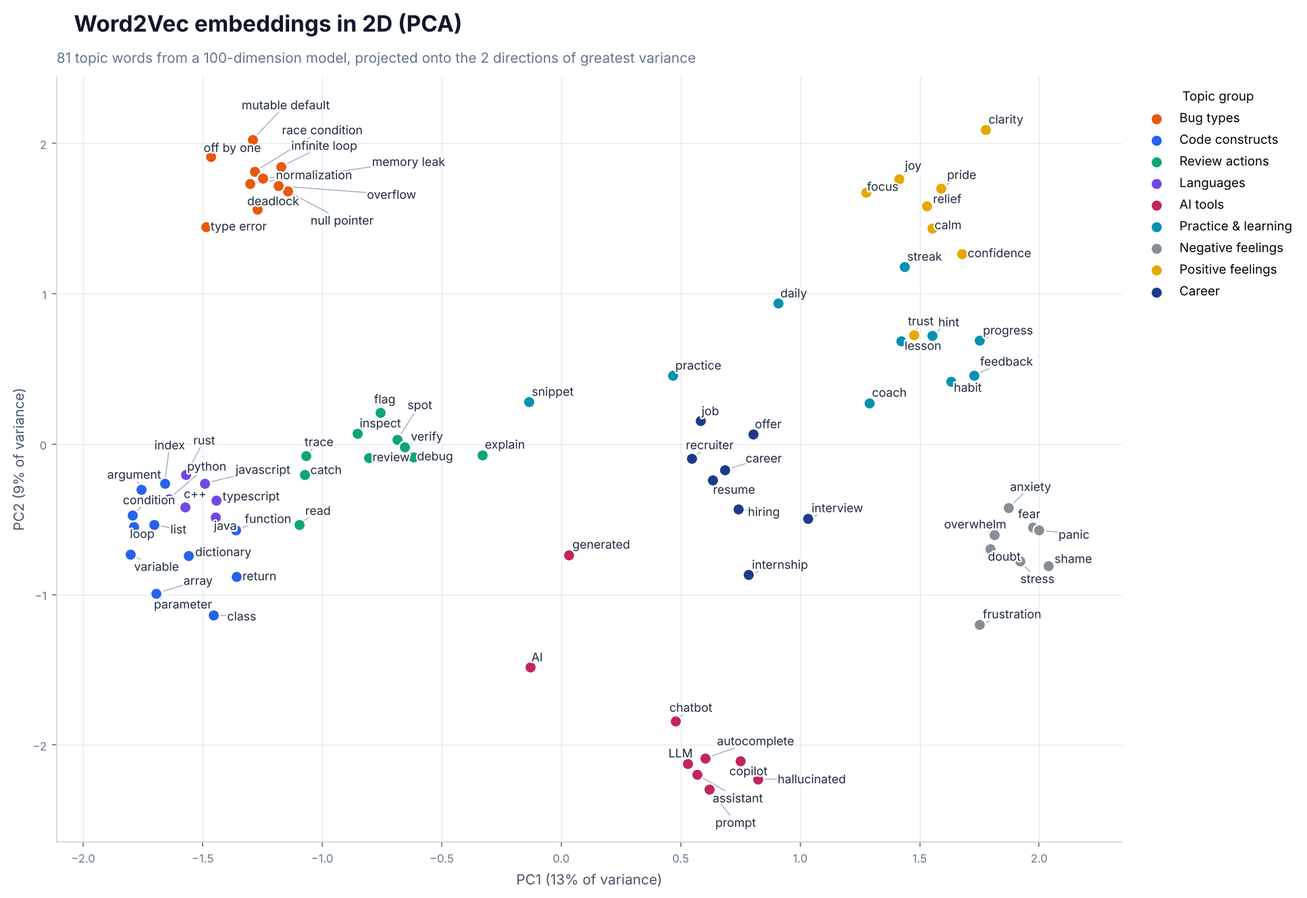
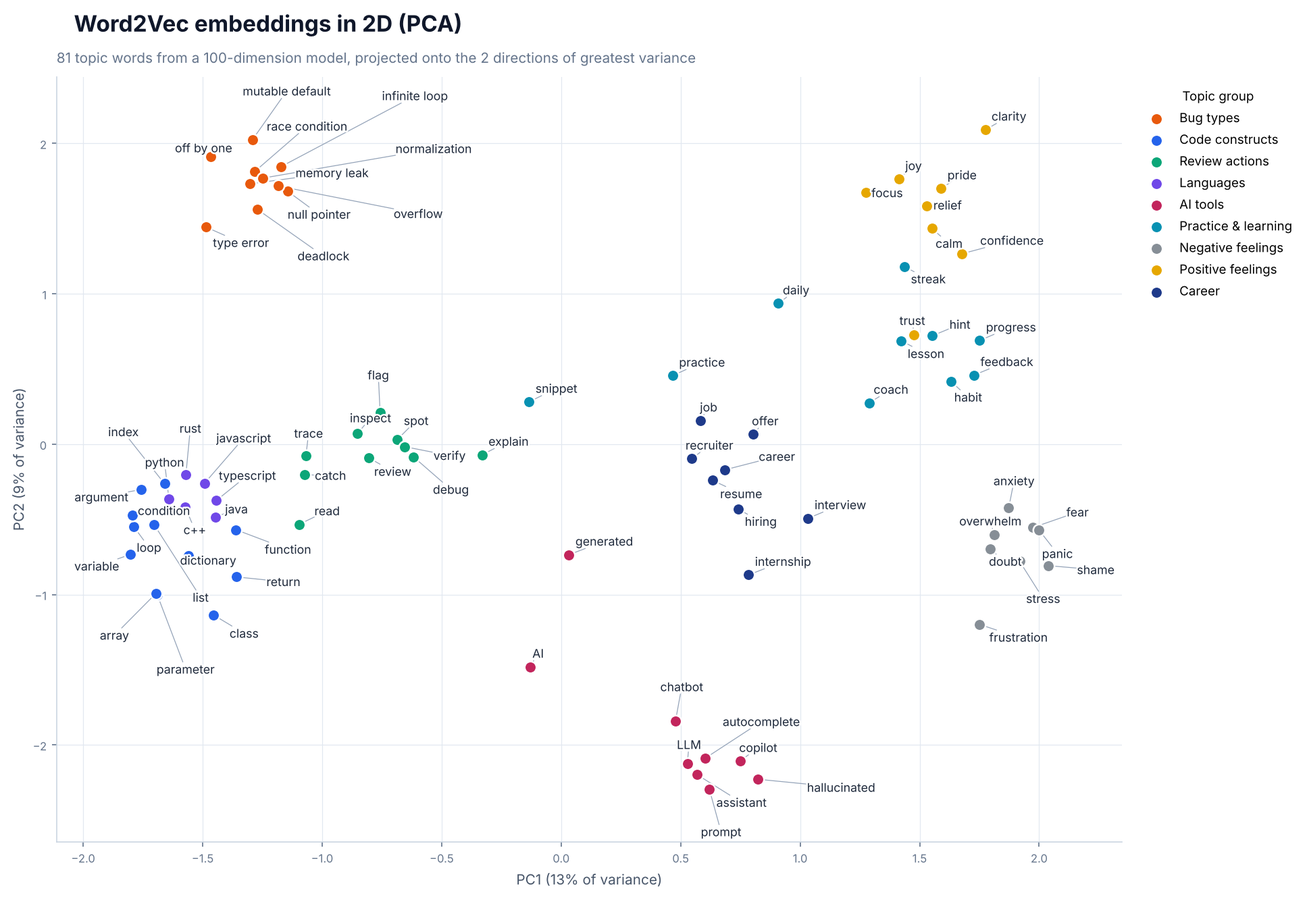
Word2Vec: review fixes in progress (checkpoint)
Claude-Session: https://claude.ai/code/session_01VZ5QCw8treQoUtVw5pt1K5

diff --git a/word2vec/outputs/embedding_3d.html b/word2vec/outputs/embedding_3d.html
@@ -6,6 +6,6 @@
 </head>
 <body>
     <div style="height:100%; width:100%;">                        <script>window.PlotlyConfig = {MathJaxConfig: 'local'};</script>
-        <script charset="utf-8" src="https://cdn.plot.ly/plotly-4.1.1.min.js" integrity="sha256-O24V1F27f8pb0glCkelh3cVHLNiHAJ5gCaVtq2aNch8=" crossorigin="anonymous"></script>                <div id="4387cd85-2b52-4ad8-956a-1c67263fd179" class="plotly-graph-div" style="height:100%; width:100%;"></div>            <script>                window.PLOTLYENV=window.PLOTLYENV || {};                                if (document.getElementById("4387cd85-2b52-4ad8-956a-1c67263fd179")) {                    Plotly.newPlot(                        "4387cd85-2b52-4ad8-956a-1c67263fd179",                        [{"hovertemplate":"\u003cb\u003e%{text}\u003c\u002fb\u003e\u003cbr\u003eBug types\u003cextra\u003e\u003c\u002fextra\u003e","marker":{"color":"#E8590C","line":{"color":"white","width":1},"size":6},"mode":"markers+text","name":"Bug types","text":["off by one","mutable default","null pointer","race condition","memory leak","infinite loop","type error","deadlock","overflow","normalization"],"textfont":{"color":"#1E293B","size":11},"textposition":"top center","x":{"dtype":"f4","bdata":"n4G7v0xTpb\u002fpa5K\u002f8w+kvwyTpr8tDJa\u002fFUi+v2G6or\u002f9rZe\u002f+O2fvw=="},"y":{"dtype":"f4","bdata":"QsL0P7qeAUCsPtc\u002fkC3oP9un3T9FQuw\u002f+ty4PxLwxz9n1Ns\u002fnXHiPw=="},"z":{"dtype":"f4","bdata":"OjhzP\u002fbHfT8MbrE\u002f+hWfP\u002f9owj+waZ0\u002fRTSgP27Toj8QKak\u002fE7+\u002fPw=="},"type":"scatter3d"},{"hovertemplate":"\u003cb\u003e%{text}\u003c\u002fb\u003e\u003cbr\u003eCode constructs\u003cextra\u003e\u003c\u002fextra\u003e","marker":{"color":"#2563EB","line":{"color":"white","width":1},"size":6},"mode":"markers+text","name":"Code constructs","text":["loop","function","variable","list","index","argument","parameter","array","dictionary","condition","return","class"],"textfont":{"color":"#1E293B","size":11},"textposition":"top center","x":{"dtype":"f4","bdata":"OPDkv6sirr\u002fp5Oa\u002f1\u002fbZv39r1L\u002fC\u002f+C\u002fbUnYv+YZ2b+Fnse\u002flrDlvyT5rb8NHbq\u002f"},"y":{"dtype":"f4","bdata":"PREMv4inEb8v\u002fju\u002f\u002fjQJvxzIhr4OVJq+almAv7dTfr+Raj2\u002fvybxvmj4Yb8vdJG\u002f"},"z":{"dtype":"f4","bdata":"LEHsv8Rxcb8s3aW\u002fLBrDv95ix7\u002fqYbe\u002fBQnCv9Mv07\u002fbc8a\u002fTvy6v68qwb9z+MC\u002f"},"type":"scatter3d"},{"hovertemplate":"\u003cb\u003e%{text}\u003c\u002fb\u003e\u003cbr\u003eReview actions\u003cextra\u003e\u003c\u002fextra\u003e","marker":{"color":"#0CA678","line":{"color":"white","width":1},"size":6},"mode":"markers+text","name":"Review actions","text":["read","review","trace","flag","inspect","explain","debug","spot","catch","verify"],"textfont":{"color":"#1E293B","size":11},"textposition":"top center","x":{"dtype":"f4","bdata":"ZU2Mv\u002fvGTb8osoi\u002f1OdBvwQBWr\u002fUV6m+zQAev8Z1L7+Rjom\u002f2YQnvw=="},"y":{"dtype":"f4","bdata":"p2IIv8Qfu71Jopq9o7ZVPjFykj0ZzI+9hmmuve16\u002fzxGGVC+iTKJvA=="},"z":{"dtype":"f4","bdata":"oBplvsXA175Dk1y\u002fkxf1vv7R\u002f77xuiG9RWmGvpZbGL\u002fKeIC+Ajatvg=="},"type":"scatter3d"},{"hovertemplate":"\u003cb\u003e%{text}\u003c\u002fb\u003e\u003cbr\u003eLanguages\u003cextra\u003e\u003c\u002fextra\u003e","marker":{"color":"#7048E8","line":{"color":"white","width":1},"size":6},"mode":"markers+text","name":"Languages","text":["python","javascript","java","c++","typescript","rust"],"textfont":{"color":"#1E293B","size":11},"textposition":"top center","x":{"dtype":"f4","bdata":"iBLSvz0Iv78IQbm\u002f6WPJv0ebuL\u002fAAcm\u002f"},"y":{"dtype":"f4","bdata":"wEm6vmEfhb5tP\u002fi+yhHVvqVtv75CBlG+"},"z":{"dtype":"f4","bdata":"MA4zvq1qtD4zeAk\u002fC\u002fHyPkIgCj+wHpc+"},"type":"scatter3d"},{"hovertemplate":"\u003cb\u003e%{text}\u003c\u002fb\u003e\u003cbr\u003eAI tools\u003cextra\u003e\u003c\u002fextra\u003e","marker":{"color":"#C2255C","line":{"color":"white","width":1},"size":6},"mode":"markers+text","name":"AI tools","text":["AI","assistant","chatbot","copilot","LLM","prompt","generated","hallucinated","autocomplete"],"textfont":{"color":"#1E293B","size":11},"textposition":"top center","x":{"dtype":"f4","bdata":"GXcFvharET+44vQ+JbY\u002fP24kBz+zqx4\u002fMZQGPe7mUj9Smxo\u002f"},"y":{"dtype":"f4","bdata":"xYK9v9mtDMBRxuu\u002fotsGwKHoB8CaxBLAiR88v\u002fadDsCHmAXA"},"z":{"dtype":"f4","bdata":"1hV5PxLLuj9P3aI\u002fSg\u002fIP5bdsz9ZQM4\u002fwWwvPzk+qj8Ajso\u002f"},"type":"scatter3d"},{"hovertemplate":"\u003cb\u003e%{text}\u003c\u002fb\u003e\u003cbr\u003ePractice & learning\u003cextra\u003e\u003c\u002fextra\u003e","marker":{"color":"#0891B2","line":{"color":"white","width":1},"size":6},"mode":"markers+text","name":"Practice & learning","text":["practice","streak","daily","snippet","coach","feedback","hint","lesson","habit","progress"],"textfont":{"color":"#1E293B","size":11},"textposition":"top center","x":{"dtype":"f4","bdata":"4dLuPhDetz+QtGg\u002fl2AJvpEDpT+dG90\u002f9LzGP3gktj9L49A\u002fDRzgPw=="},"y":{"dtype":"f4","bdata":"1l\u002fpPqQLlz9Fnm8\u002f4DiQPrDmjD5uKOs+OIU4PygUMD9dIdU+GXwwPw=="},"z":{"dtype":"f4","bdata":"2E3GPAKSX75YLqI7I9wxvpnGQb8fFHa+hyXIvqn9+r7QC9O+4ynCvg=="},"type":"scatter3d"},{"hovertemplate":"\u003cb\u003e%{text}\u003c\u002fb\u003e\u003cbr\u003eNegative feelings\u003cextra\u003e\u003c\u002fextra\u003e","marker":{"color":"#868E96","line":{"color":"white","width":1},"size":6},"mode":"markers+text","name":"Negative feelings","text":["anxiety","shame","overwhelm","fear","panic","frustration","doubt","stress"],"textfont":{"color":"#1E293B","size":11},"textposition":"top center","x":{"dtype":"f4","bdata":"XLbvP7Z+AkDz3Oc\u002fb6j8PyHn\u002fz\u002f8B+A\u002foKLlP1WS9T8="},"y":{"dtype":"f4","bdata":"5LjYvjXITr8axRm\u002fA\u002fkNvx4JEr\u002f1Zpm\u002fZsUyv16JR78="},"z":{"dtype":"f4","bdata":"ZCuTv00Gdb9753u\u002fs7+Jv573a79OUBS\u002f+s2Dv1Y+hr8="},"type":"scatter3d"},{"hovertemplate":"\u003cb\u003e%{text}\u003c\u002fb\u003e\u003cbr\u003ePositive feelings\u003cextra\u003e\u003c\u002fextra\u003e","marker":{"color":"#E6A700","line":{"color":"white","width":1},"size":6},"mode":"markers+text","name":"Positive feelings","text":["confidence","pride","relief","clarity","calm","focus","trust","joy"],"textfont":{"color":"#1E293B","size":11},"textposition":"top center","x":{"dtype":"f4","bdata":"QHPWPxd2yz9n6sM\u002fYGvjP7SIxj\u002fSFKM\u002ftvu8P63gtD8="},"y":{"dtype":"f4","bdata":"HQSiP9622T\u002ff8Mo\u002f1OMFQBmWtz9ymdY\u002frGk6P3mb4T8="},"z":{"dtype":"f4","bdata":"XpdGv\u002fMoML9ZZCy\u002fOyBhv\u002fN2Yr8Z5JO\u002f5O4Iv42zTr8="},"type":"scatter3d"},{"hovertemplate":"\u003cb\u003e%{text}\u003c\u002fb\u003e\u003cbr\u003eCareer\u003cextra\u003e\u003c\u002fextra\u003e","marker":{"color":"#1E3A8A","line":{"color":"white","width":1},"size":6},"mode":"markers+text","name":"Career","text":["interview","internship","job","recruiter","resume","offer","hiring","career"],"textfont":{"color":"#1E293B","size":11},"textposition":"top center","x":{"dtype":"f4","bdata":"KE6EP9u5SD8qDBU\u002fgA4MPzXwIT\u002frVU0\u002faeU9P58TLz8="},"y":{"dtype":"f4","bdata":"DkD8vpmRXr+s0CA+uBfFvaNtdb4RPIY9BaXdvkYRL74="},"z":{"dtype":"f4","bdata":"nx\u002fGP26M0D83jmY\u002fFFjYPxvzxD8kX+k\u002f3yeqP1Y39T8="},"type":"scatter3d"}],                        {"template":{"data":{"histogram2dcontour":[{"type":"histogram2dcontour","colorbar":{"outlinewidth":0,"ticks":""},"colorscale":[[0.0,"#0d0887"],[0.1111111111111111,"#46039f"],[0.2222222222222222,"#7201a8"],[0.3333333333333333,"#9c179e"],[0.4444444444444444,"#bd3786"],[0.5555555555555556,"#d8576b"],[0.6666666666666666,"#ed7953"],[0.7777777777777778,"#fb9f3a"],[0.8888888888888888,"#fdca26"],[1.0,"#f0f921"]]}],"choropleth":[{"type":"choropleth","colorbar":{"outlinewidth":0,"ticks":""}}],"histogram2d":[{"type":"histogram2d","colorbar":{"outlinewidth":0,"ticks":""},"colorscale":[[0.0,"#0d0887"],[0.1111111111111111,"#46039f"],[0.2222222222222222,"#7201a8"],[0.3333333333333333,"#9c179e"],[0.4444444444444444,"#bd3786"],[0.5555555555555556,"#d8576b"],[0.6666666666666666,"#ed7953"],[0.7777777777777778,"#fb9f3a"],[0.8888888888888888,"#fdca26"],[1.0,"#f0f921"]]}],"heatmap":[{"type":"heatmap","colorbar":{"outlinewidth":0,"ticks":""},"colorscale":[[0.0,"#0d0887"],[0.1111111111111111,"#46039f"],[0.2222222222222222,"#7201a8"],[0.3333333333333333,"#9c179e"],[0.4444444444444444,"#bd3786"],[0.5555555555555556,"#d8576b"],[0.6666666666666666,"#ed7953"],[0.7777777777777778,"#fb9f3a"],[0.8888888888888888,"#fdca26"],[1.0,"#f0f921"]]}],"contourcarpet":[{"type":"contourcarpet","colorbar":{"outlinewidth":0,"ticks":""}}],"contour":[{"type":"contour","colorbar":{"outlinewidth":0,"ticks":""},"colorscale":[[0.0,"#0d0887"],[0.1111111111111111,"#46039f"],[0.2222222222222222,"#7201a8"],[0.3333333333333333,"#9c179e"],[0.4444444444444444,"#bd3786"],[0.5555555555555556,"#d8576b"],[0.6666666666666666,"#ed7953"],[0.7777777777777778,"#fb9f3a"],[0.8888888888888888,"#fdca26"],[1.0,"#f0f921"]]}],"surface":[{"type":"surface","colorbar":{"outlinewidth":0,"ticks":""},"colorscale":[[0.0,"#0d0887"],[0.1111111111111111,"#46039f"],[0.2222222222222222,"#7201a8"],[0.3333333333333333,"#9c179e"],[0.4444444444444444,"#bd3786"],[0.5555555555555556,"#d8576b"],[0.6666666666666666,"#ed7953"],[0.7777777777777778,"#fb9f3a"],[0.8888888888888888,"#fdca26"],[1.0,"#f0f921"]]}],"mesh3d":[{"type":"mesh3d","colorbar":{"outlinewidth":0,"ticks":""}}],"scatter":[{"fillpattern":{"fillmode":"overlay","size":10,"solidity":0.2},"type":"scatter"}],"parcoords":[{"type":"parcoords","line":{"colorbar":{"outlinewidth":0,"ticks":""}}}],"scatterpolargl":[{"type":"scatterpolargl","marker":{"colorbar":{"outlinewidth":0,"ticks":""}}}],"bar":[{"error_x":{"color":"#2a3f5f"},"error_y":{"color":"#2a3f5f"},"marker":{"line":{"color":"#E5ECF6","width":0.5},"pattern":{"fillmode":"overlay","size":10,"solidity":0.2}},"type":"bar"}],"scattergeo":[{"type":"scattergeo","marker":{"colorbar":{"outlinewidth":0,"ticks":""}}}],"scatterpolar":[{"type":"scatterpolar","marker":{"colorbar":{"outlinewidth":0,"ticks":""}}}],"histogram":[{"marker":{"pattern":{"fillmode":"overlay","size":10,"solidity":0.2}},"type":"histogram"}],"scattergl":[{"type":"scattergl","marker":{"colorbar":{"outlinewidth":0,"ticks":""}}}],"scatter3d":[{"type":"scatter3d","line":{"colorbar":{"outlinewidth":0,"ticks":""}},"marker":{"colorbar":{"outlinewidth":0,"ticks":""}}}],"scattermap":[{"type":"scattermap","marker":{"colorbar":{"outlinewidth":0,"ticks":""}}}],"scatterternary":[{"type":"scatterternary","marker":{"colorbar":{"outlinewidth":0,"ticks":""}}}],"scattercarpet":[{"type":"scattercarpet","marker":{"colorbar":{"outlinewidth":0,"ticks":""}}}],"carpet":[{"aaxis":{"endlinecolor":"#2a3f5f","gridcolor":"white","linecolor":"white","minorgridcolor":"white","startlinecolor":"#2a3f5f"},"baxis":{"endlinecolor":"#2a3f5f","gridcolor":"white","linecolor":"white","minorgridcolor":"white","startlinecolor":"#2a3f5f"},"type":"carpet"}],"table":[{"cells":{"fill":{"color":"#EBF0F8"},"line":{"color":"white"}},"header":{"fill":{"color":"#C8D4E3"},"line":{"color":"white"}},"type":"table"}],"barpolar":[{"marker":{"line":{"color":"#E5ECF6","width":0.5},"pattern":{"fillmode":"overlay","size":10,"solidity":0.2}},"type":"barpolar"}],"pie":[{"automargin":true,"type":"pie"}]},"layout":{"autotypenumbers":"strict","colorway":["#636efa","#EF553B","#00cc96","#ab63fa","#FFA15A","#19d3f3","#FF6692","#B6E880","#FF97FF","#FECB52"],"font":{"color":"#2a3f5f"},"hovermode":"closest","hoverlabel":{"align":"left"},"paper_bgcolor":"white","plot_bgcolor":"#E5ECF6","polar":{"bgcolor":"#E5ECF6","angularaxis":{"gridcolor":"white","linecolor":"white","ticks":""},"radialaxis":{"gridcolor":"white","linecolor":"white","ticks":""}},"ternary":{"bgcolor":"#E5ECF6","aaxis":{"gridcolor":"white","linecolor":"white","ticks":""},"baxis":{"gridcolor":"white","linecolor":"white","ticks":""},"caxis":{"gridcolor":"white","linecolor":"white","ticks":""}},"coloraxis":{"colorbar":{"outlinewidth":0,"ticks":""}},"colorscale":{"sequential":[[0.0,"#0d0887"],[0.1111111111111111,"#46039f"],[0.2222222222222222,"#7201a8"],[0.3333333333333333,"#9c179e"],[0.4444444444444444,"#bd3786"],[0.5555555555555556,"#d8576b"],[0.6666666666666666,"#ed7953"],[0.7777777777777778,"#fb9f3a"],[0.8888888888888888,"#fdca26"],[1.0,"#f0f921"]],"sequentialminus":[[0.0,"#0d0887"],[0.1111111111111111,"#46039f"],[0.2222222222222222,"#7201a8"],[0.3333333333333333,"#9c179e"],[0.4444444444444444,"#bd3786"],[0.5555555555555556,"#d8576b"],[0.6666666666666666,"#ed7953"],[0.7777777777777778,"#fb9f3a"],[0.8888888888888888,"#fdca26"],[1.0,"#f0f921"]],"diverging":[[0,"#8e0152"],[0.1,"#c51b7d"],[0.2,"#de77ae"],[0.3,"#f1b6da"],[0.4,"#fde0ef"],[0.5,"#f7f7f7"],[0.6,"#e6f5d0"],[0.7,"#b8e186"],[0.8,"#7fbc41"],[0.9,"#4d9221"],[1,"#276419"]]},"xaxis":{"gridcolor":"white","linecolor":"white","ticks":"","title":{"standoff":15},"zerolinecolor":"white","automargin":true,"zerolinewidth":2},"yaxis":{"gridcolor":"white","linecolor":"white","ticks":"","title":{"standoff":15},"zerolinecolor":"white","automargin":true,"zerolinewidth":2},"scene":{"xaxis":{"backgroundcolor":"#E5ECF6","gridcolor":"white","linecolor":"white","showbackground":true,"ticks":"","zerolinecolor":"white","gridwidth":2},"yaxis":{"backgroundcolor":"#E5ECF6","gridcolor":"white","linecolor":"white","showbackground":true,"ticks":"","zerolinecolor":"white","gridwidth":2},"zaxis":{"backgroundcolor":"#E5ECF6","gridcolor":"white","linecolor":"white","showbackground":true,"ticks":"","zerolinecolor":"white","gridwidth":2}},"shapedefaults":{"line":{"color":"#2a3f5f"}},"annotationdefaults":{"arrowcolor":"#2a3f5f","arrowhead":0,"arrowwidth":1},"geo":{"bgcolor":"white","landcolor":"#E5ECF6","subunitcolor":"white","showland":true,"showlakes":true,"lakecolor":"white"},"title":{"x":0.05}}},"title":{"font":{"size":18,"color":"#0F172A"},"text":"Linewise Word2Vec: interactive 3D view (drag to rotate)"},"scene":{"xaxis":{"title":{"text":"PC1 (13%)"},"backgroundcolor":"#F8FAFC","gridcolor":"#E2E8F0","zerolinecolor":"#CBD5E1","showspikes":false},"yaxis":{"title":{"text":"PC2 (9%)"},"backgroundcolor":"#F8FAFC","gridcolor":"#E2E8F0","zerolinecolor":"#CBD5E1","showspikes":false},"zaxis":{"title":{"text":"PC3 (9%)"},"backgroundcolor":"#F8FAFC","gridcolor":"#E2E8F0","zerolinecolor":"#CBD5E1","showspikes":false}},"legend":{"title":{"text":"Topic group"},"itemsizing":"constant"},"margin":{"l":0,"r":0,"t":60,"b":0},"font":{"family":"Inter, system-ui, sans-serif"},"paper_bgcolor":"white"},                        {"responsive": true}                    )                };            </script>        </div>
+        <script charset="utf-8" src="https://cdn.plot.ly/plotly-4.1.1.min.js" integrity="sha256-O24V1F27f8pb0glCkelh3cVHLNiHAJ5gCaVtq2aNch8=" crossorigin="anonymous"></script>                <div id="e66f4f3f-b761-42c2-a677-ee963ede3209" class="plotly-graph-div" style="height:100%; width:100%;"></div>            <script>                window.PLOTLYENV=window.PLOTLYENV || {};                                if (document.getElementById("e66f4f3f-b761-42c2-a677-ee963ede3209")) {                    Plotly.newPlot(                        "e66f4f3f-b761-42c2-a677-ee963ede3209",                        [{"hovertemplate":"\u003cb\u003e%{text}\u003c\u002fb\u003e\u003cbr\u003eBug types\u003cextra\u003e\u003c\u002fextra\u003e","marker":{"color":"#E8590C","line":{"color":"white","width":1},"size":6},"mode":"markers+text","name":"Bug types","text":["off by one","mutable default","null pointer","race condition","memory leak","infinite loop","type error","deadlock","overflow","normalization"],"textfont":{"color":"#1E293B","size":11},"textposition":"top center","x":{"dtype":"f4","bdata":"n4G7v0xTpb\u002fpa5K\u002f8w+kvwyTpr8tDJa\u002fFUi+v2G6or\u002f9rZe\u002f+O2fvw=="},"y":{"dtype":"f4","bdata":"QsL0P7qeAUCsPtc\u002fkC3oP9un3T9FQuw\u002f+ty4PxLwxz9n1Ns\u002fnXHiPw=="},"z":{"dtype":"f4","bdata":"OjhzP\u002fbHfT8MbrE\u002f+hWfP\u002f9owj+waZ0\u002fRTSgP27Toj8QKak\u002fE7+\u002fPw=="},"type":"scatter3d"},{"hovertemplate":"\u003cb\u003e%{text}\u003c\u002fb\u003e\u003cbr\u003eCode constructs\u003cextra\u003e\u003c\u002fextra\u003e","marker":{"color":"#2563EB","line":{"color":"white","width":1},"size":6},"mode":"markers+text","name":"Code constructs","text":["loop","function","variable","list","index","argument","parameter","array","dictionary","condition","return","class"],"textfont":{"color":"#1E293B","size":11},"textposition":"top center","x":{"dtype":"f4","bdata":"OPDkv6sirr\u002fp5Oa\u002f1\u002fbZv39r1L\u002fC\u002f+C\u002fbUnYv+YZ2b+Fnse\u002flrDlvyT5rb8NHbq\u002f"},"y":{"dtype":"f4","bdata":"PREMv4inEb8v\u002fju\u002f\u002fjQJvxzIhr4OVJq+almAv7dTfr+Raj2\u002fvybxvmj4Yb8vdJG\u002f"},"z":{"dtype":"f4","bdata":"LEHsv8Rxcb8s3aW\u002fLBrDv95ix7\u002fqYbe\u002fBQnCv9Mv07\u002fbc8a\u002fTvy6v68qwb9z+MC\u002f"},"type":"scatter3d"},{"hovertemplate":"\u003cb\u003e%{text}\u003c\u002fb\u003e\u003cbr\u003eReview actions\u003cextra\u003e\u003c\u002fextra\u003e","marker":{"color":"#0CA678","line":{"color":"white","width":1},"size":6},"mode":"markers+text","name":"Review actions","text":["read","review","trace","flag","inspect","explain","debug","spot","catch","verify"],"textfont":{"color":"#1E293B","size":11},"textposition":"top center","x":{"dtype":"f4","bdata":"ZU2Mv\u002fvGTb8osoi\u002f1OdBvwQBWr\u002fUV6m+zQAev8Z1L7+Rjom\u002f2YQnvw=="},"y":{"dtype":"f4","bdata":"p2IIv8Qfu71Jopq9o7ZVPjFykj0ZzI+9hmmuve16\u002fzxGGVC+iTKJvA=="},"z":{"dtype":"f4","bdata":"oBplvsXA175Dk1y\u002fkxf1vv7R\u002f77xuiG9RWmGvpZbGL\u002fKeIC+Ajatvg=="},"type":"scatter3d"},{"hovertemplate":"\u003cb\u003e%{text}\u003c\u002fb\u003e\u003cbr\u003eLanguages\u003cextra\u003e\u003c\u002fextra\u003e","marker":{"color":"#7048E8","line":{"color":"white","width":1},"size":6},"mode":"markers+text","name":"Languages","text":["python","javascript","java","c++","typescript","rust"],"textfont":{"color":"#1E293B","size":11},"textposition":"top center","x":{"dtype":"f4","bdata":"iBLSvz0Iv78IQbm\u002f6WPJv0ebuL\u002fAAcm\u002f"},"y":{"dtype":"f4","bdata":"wEm6vmEfhb5tP\u002fi+yhHVvqVtv75CBlG+"},"z":{"dtype":"f4","bdata":"MA4zvq1qtD4zeAk\u002fC\u002fHyPkIgCj+wHpc+"},"type":"scatter3d"},{"hovertemplate":"\u003cb\u003e%{text}\u003c\u002fb\u003e\u003cbr\u003eAI tools\u003cextra\u003e\u003c\u002fextra\u003e","marker":{"color":"#C2255C","line":{"color":"white","width":1},"size":6},"mode":"markers+text","name":"AI tools","text":["AI","assistant","chatbot","copilot","LLM","prompt","generated","hallucinated","autocomplete"],"textfont":{"color":"#1E293B","size":11},"textposition":"top center","x":{"dtype":"f4","bdata":"GXcFvharET+44vQ+JbY\u002fP24kBz+zqx4\u002fMZQGPe7mUj9Smxo\u002f"},"y":{"dtype":"f4","bdata":"xYK9v9mtDMBRxuu\u002fotsGwKHoB8CaxBLAiR88v\u002fadDsCHmAXA"},"z":{"dtype":"f4","bdata":"1hV5PxLLuj9P3aI\u002fSg\u002fIP5bdsz9ZQM4\u002fwWwvPzk+qj8Ajso\u002f"},"type":"scatter3d"},{"hovertemplate":"\u003cb\u003e%{text}\u003c\u002fb\u003e\u003cbr\u003ePractice & learning\u003cextra\u003e\u003c\u002fextra\u003e","marker":{"color":"#0891B2","line":{"color":"white","width":1},"size":6},"mode":"markers+text","name":"Practice & learning","text":["practice","streak","daily","snippet","coach","feedback","hint","lesson","habit","progress"],"textfont":{"color":"#1E293B","size":11},"textposition":"top center","x":{"dtype":"f4","bdata":"4dLuPhDetz+QtGg\u002fl2AJvpEDpT+dG90\u002f9LzGP3gktj9L49A\u002fDRzgPw=="},"y":{"dtype":"f4","bdata":"1l\u002fpPqQLlz9Fnm8\u002f4DiQPrDmjD5uKOs+OIU4PygUMD9dIdU+GXwwPw=="},"z":{"dtype":"f4","bdata":"2E3GPAKSX75YLqI7I9wxvpnGQb8fFHa+hyXIvqn9+r7QC9O+4ynCvg=="},"type":"scatter3d"},{"hovertemplate":"\u003cb\u003e%{text}\u003c\u002fb\u003e\u003cbr\u003eNegative feelings\u003cextra\u003e\u003c\u002fextra\u003e","marker":{"color":"#868E96","line":{"color":"white","width":1},"size":6},"mode":"markers+text","name":"Negative feelings","text":["anxiety","shame","overwhelm","fear","panic","frustration","doubt","stress"],"textfont":{"color":"#1E293B","size":11},"textposition":"top center","x":{"dtype":"f4","bdata":"XLbvP7Z+AkDz3Oc\u002fb6j8PyHn\u002fz\u002f8B+A\u002foKLlP1WS9T8="},"y":{"dtype":"f4","bdata":"5LjYvjXITr8axRm\u002fA\u002fkNvx4JEr\u002f1Zpm\u002fZsUyv16JR78="},"z":{"dtype":"f4","bdata":"ZCuTv00Gdb9753u\u002fs7+Jv573a79OUBS\u002f+s2Dv1Y+hr8="},"type":"scatter3d"},{"hovertemplate":"\u003cb\u003e%{text}\u003c\u002fb\u003e\u003cbr\u003ePositive feelings\u003cextra\u003e\u003c\u002fextra\u003e","marker":{"color":"#E6A700","line":{"color":"white","width":1},"size":6},"mode":"markers+text","name":"Positive feelings","text":["confidence","pride","relief","clarity","calm","focus","trust","joy"],"textfont":{"color":"#1E293B","size":11},"textposition":"top center","x":{"dtype":"f4","bdata":"QHPWPxd2yz9n6sM\u002fYGvjP7SIxj\u002fSFKM\u002ftvu8P63gtD8="},"y":{"dtype":"f4","bdata":"HQSiP9622T\u002ff8Mo\u002f1OMFQBmWtz9ymdY\u002frGk6P3mb4T8="},"z":{"dtype":"f4","bdata":"XpdGv\u002fMoML9ZZCy\u002fOyBhv\u002fN2Yr8Z5JO\u002f5O4Iv42zTr8="},"type":"scatter3d"},{"hovertemplate":"\u003cb\u003e%{text}\u003c\u002fb\u003e\u003cbr\u003eCareer\u003cextra\u003e\u003c\u002fextra\u003e","marker":{"color":"#1E3A8A","line":{"color":"white","width":1},"size":6},"mode":"markers+text","name":"Career","text":["interview","internship","job","recruiter","resume","offer","hiring","career"],"textfont":{"color":"#1E293B","size":11},"textposition":"top center","x":{"dtype":"f4","bdata":"KE6EP9u5SD8qDBU\u002fgA4MPzXwIT\u002frVU0\u002faeU9P58TLz8="},"y":{"dtype":"f4","bdata":"DkD8vpmRXr+s0CA+uBfFvaNtdb4RPIY9BaXdvkYRL74="},"z":{"dtype":"f4","bdata":"nx\u002fGP26M0D83jmY\u002fFFjYPxvzxD8kX+k\u002f3yeqP1Y39T8="},"type":"scatter3d"}],                        {"template":{"data":{"histogram2dcontour":[{"type":"histogram2dcontour","colorbar":{"outlinewidth":0,"ticks":""},"colorscale":[[0.0,"#0d0887"],[0.1111111111111111,"#46039f"],[0.2222222222222222,"#7201a8"],[0.3333333333333333,"#9c179e"],[0.4444444444444444,"#bd3786"],[0.5555555555555556,"#d8576b"],[0.6666666666666666,"#ed7953"],[0.7777777777777778,"#fb9f3a"],[0.8888888888888888,"#fdca26"],[1.0,"#f0f921"]]}],"choropleth":[{"type":"choropleth","colorbar":{"outlinewidth":0,"ticks":""}}],"histogram2d":[{"type":"histogram2d","colorbar":{"outlinewidth":0,"ticks":""},"colorscale":[[0.0,"#0d0887"],[0.1111111111111111,"#46039f"],[0.2222222222222222,"#7201a8"],[0.3333333333333333,"#9c179e"],[0.4444444444444444,"#bd3786"],[0.5555555555555556,"#d8576b"],[0.6666666666666666,"#ed7953"],[0.7777777777777778,"#fb9f3a"],[0.8888888888888888,"#fdca26"],[1.0,"#f0f921"]]}],"heatmap":[{"type":"heatmap","colorbar":{"outlinewidth":0,"ticks":""},"colorscale":[[0.0,"#0d0887"],[0.1111111111111111,"#46039f"],[0.2222222222222222,"#7201a8"],[0.3333333333333333,"#9c179e"],[0.4444444444444444,"#bd3786"],[0.5555555555555556,"#d8576b"],[0.6666666666666666,"#ed7953"],[0.7777777777777778,"#fb9f3a"],[0.8888888888888888,"#fdca26"],[1.0,"#f0f921"]]}],"contourcarpet":[{"type":"contourcarpet","colorbar":{"outlinewidth":0,"ticks":""}}],"contour":[{"type":"contour","colorbar":{"outlinewidth":0,"ticks":""},"colorscale":[[0.0,"#0d0887"],[0.1111111111111111,"#46039f"],[0.2222222222222222,"#7201a8"],[0.3333333333333333,"#9c179e"],[0.4444444444444444,"#bd3786"],[0.5555555555555556,"#d8576b"],[0.6666666666666666,"#ed7953"],[0.7777777777777778,"#fb9f3a"],[0.8888888888888888,"#fdca26"],[1.0,"#f0f921"]]}],"surface":[{"type":"surface","colorbar":{"outlinewidth":0,"ticks":""},"colorscale":[[0.0,"#0d0887"],[0.1111111111111111,"#46039f"],[0.2222222222222222,"#7201a8"],[0.3333333333333333,"#9c179e"],[0.4444444444444444,"#bd3786"],[0.5555555555555556,"#d8576b"],[0.6666666666666666,"#ed7953"],[0.7777777777777778,"#fb9f3a"],[0.8888888888888888,"#fdca26"],[1.0,"#f0f921"]]}],"mesh3d":[{"type":"mesh3d","colorbar":{"outlinewidth":0,"ticks":""}}],"scatter":[{"fillpattern":{"fillmode":"overlay","size":10,"solidity":0.2},"type":"scatter"}],"parcoords":[{"type":"parcoords","line":{"colorbar":{"outlinewidth":0,"ticks":""}}}],"scatterpolargl":[{"type":"scatterpolargl","marker":{"colorbar":{"outlinewidth":0,"ticks":""}}}],"bar":[{"error_x":{"color":"#2a3f5f"},"error_y":{"color":"#2a3f5f"},"marker":{"line":{"color":"#E5ECF6","width":0.5},"pattern":{"fillmode":"overlay","size":10,"solidity":0.2}},"type":"bar"}],"scattergeo":[{"type":"scattergeo","marker":{"colorbar":{"outlinewidth":0,"ticks":""}}}],"scatterpolar":[{"type":"scatterpolar","marker":{"colorbar":{"outlinewidth":0,"ticks":""}}}],"histogram":[{"marker":{"pattern":{"fillmode":"overlay","size":10,"solidity":0.2}},"type":"histogram"}],"scattergl":[{"type":"scattergl","marker":{"colorbar":{"outlinewidth":0,"ticks":""}}}],"scatter3d":[{"type":"scatter3d","line":{"colorbar":{"outlinewidth":0,"ticks":""}},"marker":{"colorbar":{"outlinewidth":0,"ticks":""}}}],"scattermap":[{"type":"scattermap","marker":{"colorbar":{"outlinewidth":0,"ticks":""}}}],"scatterternary":[{"type":"scatterternary","marker":{"colorbar":{"outlinewidth":0,"ticks":""}}}],"scattercarpet":[{"type":"scattercarpet","marker":{"colorbar":{"outlinewidth":0,"ticks":""}}}],"carpet":[{"aaxis":{"endlinecolor":"#2a3f5f","gridcolor":"white","linecolor":"white","minorgridcolor":"white","startlinecolor":"#2a3f5f"},"baxis":{"endlinecolor":"#2a3f5f","gridcolor":"white","linecolor":"white","minorgridcolor":"white","startlinecolor":"#2a3f5f"},"type":"carpet"}],"table":[{"cells":{"fill":{"color":"#EBF0F8"},"line":{"color":"white"}},"header":{"fill":{"color":"#C8D4E3"},"line":{"color":"white"}},"type":"table"}],"barpolar":[{"marker":{"line":{"color":"#E5ECF6","width":0.5},"pattern":{"fillmode":"overlay","size":10,"solidity":0.2}},"type":"barpolar"}],"pie":[{"automargin":true,"type":"pie"}]},"layout":{"autotypenumbers":"strict","colorway":["#636efa","#EF553B","#00cc96","#ab63fa","#FFA15A","#19d3f3","#FF6692","#B6E880","#FF97FF","#FECB52"],"font":{"color":"#2a3f5f"},"hovermode":"closest","hoverlabel":{"align":"left"},"paper_bgcolor":"white","plot_bgcolor":"#E5ECF6","polar":{"bgcolor":"#E5ECF6","angularaxis":{"gridcolor":"white","linecolor":"white","ticks":""},"radialaxis":{"gridcolor":"white","linecolor":"white","ticks":""}},"ternary":{"bgcolor":"#E5ECF6","aaxis":{"gridcolor":"white","linecolor":"white","ticks":""},"baxis":{"gridcolor":"white","linecolor":"white","ticks":""},"caxis":{"gridcolor":"white","linecolor":"white","ticks":""}},"coloraxis":{"colorbar":{"outlinewidth":0,"ticks":""}},"colorscale":{"sequential":[[0.0,"#0d0887"],[0.1111111111111111,"#46039f"],[0.2222222222222222,"#7201a8"],[0.3333333333333333,"#9c179e"],[0.4444444444444444,"#bd3786"],[0.5555555555555556,"#d8576b"],[0.6666666666666666,"#ed7953"],[0.7777777777777778,"#fb9f3a"],[0.8888888888888888,"#fdca26"],[1.0,"#f0f921"]],"sequentialminus":[[0.0,"#0d0887"],[0.1111111111111111,"#46039f"],[0.2222222222222222,"#7201a8"],[0.3333333333333333,"#9c179e"],[0.4444444444444444,"#bd3786"],[0.5555555555555556,"#d8576b"],[0.6666666666666666,"#ed7953"],[0.7777777777777778,"#fb9f3a"],[0.8888888888888888,"#fdca26"],[1.0,"#f0f921"]],"diverging":[[0,"#8e0152"],[0.1,"#c51b7d"],[0.2,"#de77ae"],[0.3,"#f1b6da"],[0.4,"#fde0ef"],[0.5,"#f7f7f7"],[0.6,"#e6f5d0"],[0.7,"#b8e186"],[0.8,"#7fbc41"],[0.9,"#4d9221"],[1,"#276419"]]},"xaxis":{"gridcolor":"white","linecolor":"white","ticks":"","title":{"standoff":15},"zerolinecolor":"white","automargin":true,"zerolinewidth":2},"yaxis":{"gridcolor":"white","linecolor":"white","ticks":"","title":{"standoff":15},"zerolinecolor":"white","automargin":true,"zerolinewidth":2},"scene":{"xaxis":{"backgroundcolor":"#E5ECF6","gridcolor":"white","linecolor":"white","showbackground":true,"ticks":"","zerolinecolor":"white","gridwidth":2},"yaxis":{"backgroundcolor":"#E5ECF6","gridcolor":"white","linecolor":"white","showbackground":true,"ticks":"","zerolinecolor":"white","gridwidth":2},"zaxis":{"backgroundcolor":"#E5ECF6","gridcolor":"white","linecolor":"white","showbackground":true,"ticks":"","zerolinecolor":"white","gridwidth":2}},"shapedefaults":{"line":{"color":"#2a3f5f"}},"annotationdefaults":{"arrowcolor":"#2a3f5f","arrowhead":0,"arrowwidth":1},"geo":{"bgcolor":"white","landcolor":"#E5ECF6","subunitcolor":"white","showland":true,"showlakes":true,"lakecolor":"white"},"title":{"x":0.05}}},"title":{"font":{"size":18,"color":"#0F172A"},"text":"Linewise Word2Vec: interactive 3D view (drag to rotate)"},"scene":{"xaxis":{"title":{"text":"PC1 (13%)"},"backgroundcolor":"#F8FAFC","gridcolor":"#E2E8F0","zerolinecolor":"#CBD5E1","showspikes":false},"yaxis":{"title":{"text":"PC2 (9%)"},"backgroundcolor":"#F8FAFC","gridcolor":"#E2E8F0","zerolinecolor":"#CBD5E1","showspikes":false},"zaxis":{"title":{"text":"PC3 (9%)"},"backgroundcolor":"#F8FAFC","gridcolor":"#E2E8F0","zerolinecolor":"#CBD5E1","showspikes":false}},"legend":{"title":{"text":"Topic group"},"itemsizing":"constant"},"margin":{"l":0,"r":0,"t":60,"b":0},"font":{"family":"Inter, system-ui, sans-serif"},"paper_bgcolor":"white"},                        {"responsive": true}                    )                };            </script>        </div>
 </body>
 </html>

diff --git a/word2vec/build_corpus.py b/word2vec/build_corpus.py
@@ -211,7 +211,9 @@ def tokenize(text: str) -> list[str]:
     text = text.lower()
     for phrase, token in PHRASES.items():
         text = text.replace(phrase, token)
-    # Keep letters, digits, underscores and "+" (for c++ before replacement).
+    # Tokens are runs of letters, digits and underscores that start with a
+    # letter. "+" is dropped here, which is why "c++" is replaced with "cpp"
+    # above, before this step.
     return re.findall(r"[a-z][a-z0-9_]*", text)
 
 
@@ -252,7 +254,7 @@ def generated_sentences(rng: random.Random, per_template: int = 60) -> list[list
     return sents
 
 
-def build() -> list[list[str]]:
+def build() -> tuple[list[list[str]], int, int]:
     rng = random.Random(SEED)
     course = course_sentences()
     generated = generated_sentences(rng)

diff --git a/word2vec/train_word2vec.py b/word2vec/train_word2vec.py
@@ -126,7 +126,7 @@ def place_labels(ax, xs, ys, words, fontsize):
              for x, y, w in zip(xs, ys, words)]
     adjust_text(texts, x=list(xs), y=list(ys), ax=ax,
                 expand=(1.35, 1.8), force_text=(0.3, 0.6), force_static=(0.4, 0.8),
-                force_pull=(0.004, 0.004), max_move=(15, 15), time_lim=4,
+                force_pull=(0.004, 0.004), max_move=(15, 15), iter_lim=150,
                 arrowprops=LEADER)
     return texts
 
